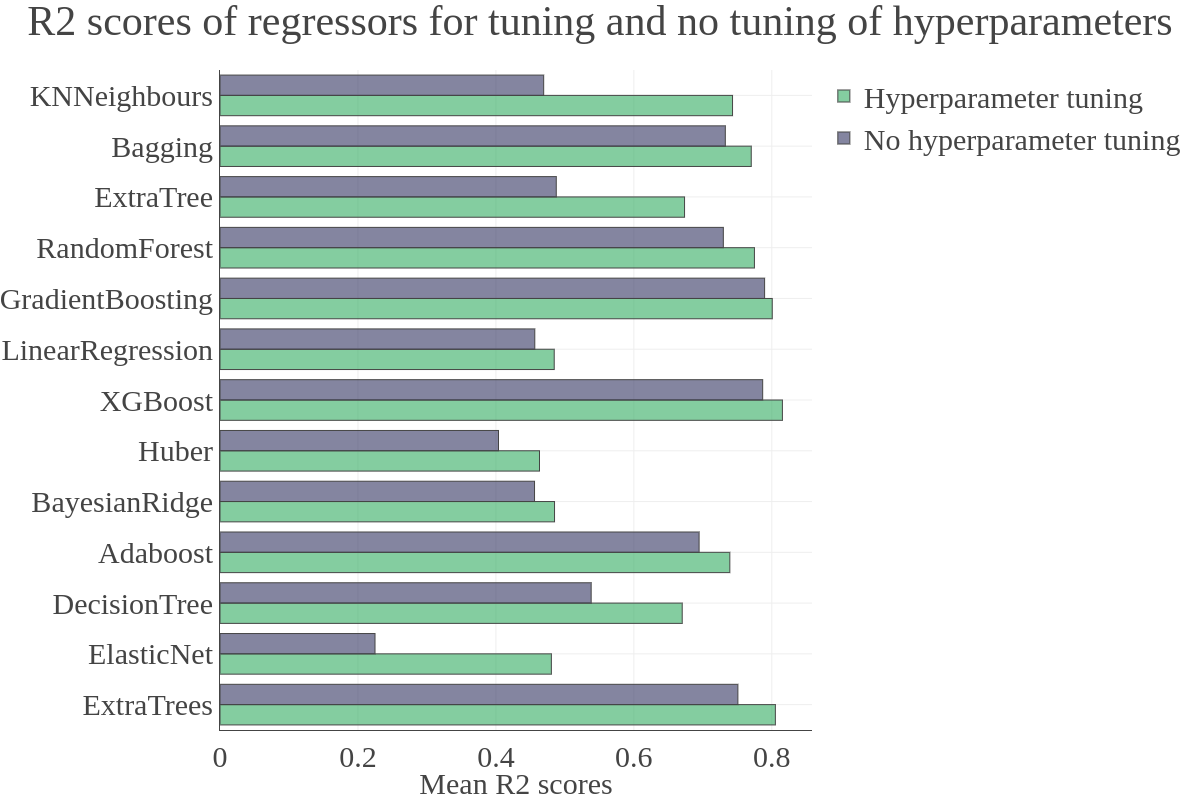
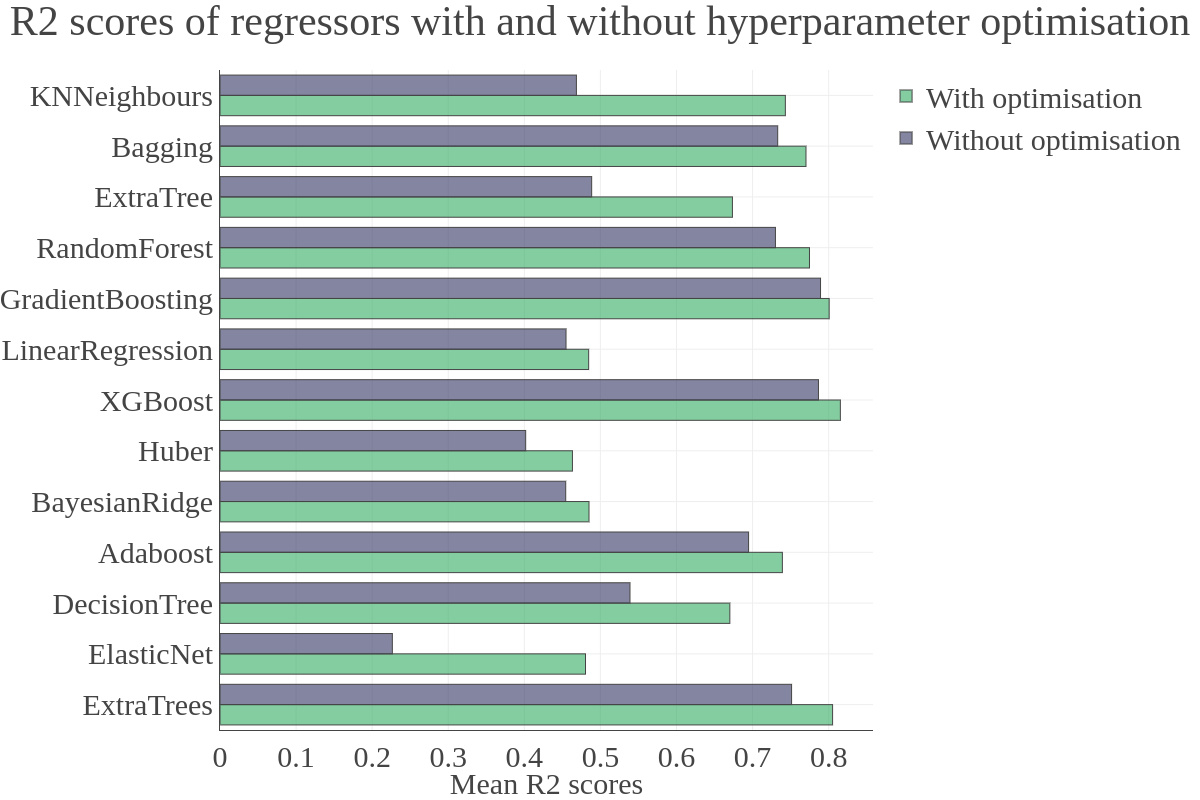
Update scripts

diff --git a/plot_parameters.py b/plot_parameters.py
@@ -1,0 +1,39 @@
+import plotly
+import plotly.graph_objs as go
+from plotly import tools
+import plotly.io as pio
+
+import pandas as pd
+
+# Get Data: this ex will only use part of it (i.e. rows 750-1500)
+df = pd.read_csv('classification_report.csv')
+ao = True
+fontsz = 16
+trace1 = go.Scatter3d(
+    x=df['param_regression__loss'],
+    y=df['param_regression__max_features'],
+    z=df['mean_test_score'],
+    mode='markers',
+    marker=dict(
+        color = df['mean_test_score'],
+        colorscale = 'Rainbow',
+        colorbar = dict(title = 'R2 score'),
+        line=dict(color='rgb(0, 0, 0)')
+    )
+)
+
+layout=go.Layout(
+    width=800,
+    height=600,
+    title = 'Gradient Boosting Regression',
+    font=dict(family='Times new roman', size=fontsz),
+    scene = dict(
+        xaxis=dict(title='Loss', titlefont=dict(color='green')),
+        yaxis=dict(title='Max features', titlefont=dict(color='green')),
+        zaxis=dict(title='R2 regression scores', titlefont=dict(color='blue'))
+    )
+)
+
+fig_tp = go.Figure(data=[trace1], layout=layout)
+plotly.offline.plot(fig_tp, filename="gb_parameter", auto_open=ao)
+pio.write_image(fig_tp, "plots/gb_parameter.png", height=800, width=1200) 

diff --git a/regression_analysis.py b/regression_analysis.py
@@ -16,7 +16,7 @@ import plotly.io as pio
 warnings.filterwarnings('ignore')
 
 start_time = time.time()
-folder_name = "european_days/"
+folder_name = "115_datasets_results/"
 clf_names_dir = os.listdir(folder_name)
 
 
@@ -71,10 +71,10 @@ trace_time_acc_list = list()
 ctr = 0
 ao = False
 
-NUM_COLORS = 16
+NUM_COLORS = len(clf_names)
 cm = plt.get_cmap('RdYlBu')
 colors = [cm(1.*i/NUM_COLORS) for i in range(NUM_COLORS)]
-fontsz = 26
+fontsz = 18
 
 for item in r2_dict.items():
     names_clf.append(item[0])
@@ -136,7 +136,7 @@ pio.write_image(fig_tp, 'plots/fit_time_r2.png', width=1200, height=800)
 
 print("-------------x------------------x---------------")
 
-fontsz = 32
+#fontsz = 32
 # plot bar chart for regressors
 r2_dict = sorted(r2_dict.items(), key=lambda kv: kv[1])
 

diff --git a/compare_tuning.py b/compare_tuning.py
@@ -134,7 +134,7 @@ trace_tuning = go.Bar(
         line=dict(
             width=1),
         ),
-    name='Hyperparameter tuning',
+    name='With optimisation',
     orientation='h'
 )
 
@@ -146,12 +146,12 @@ trace_notuning = go.Bar(
         line=dict(
             width=1),
         ),
-    name='No hyperparameter tuning',
+    name='Without optimisation',
     orientation='h'
 )
 
 layout = dict(
-    title='R2 scores of regressors for tuning and no tuning of hyperparameters',
+    title='R2 scores of regressors with and without hyperparameter optimisation',
     font=dict(family='Times new roman', size=fontsz),
     yaxis=dict(
         showgrid=True,
